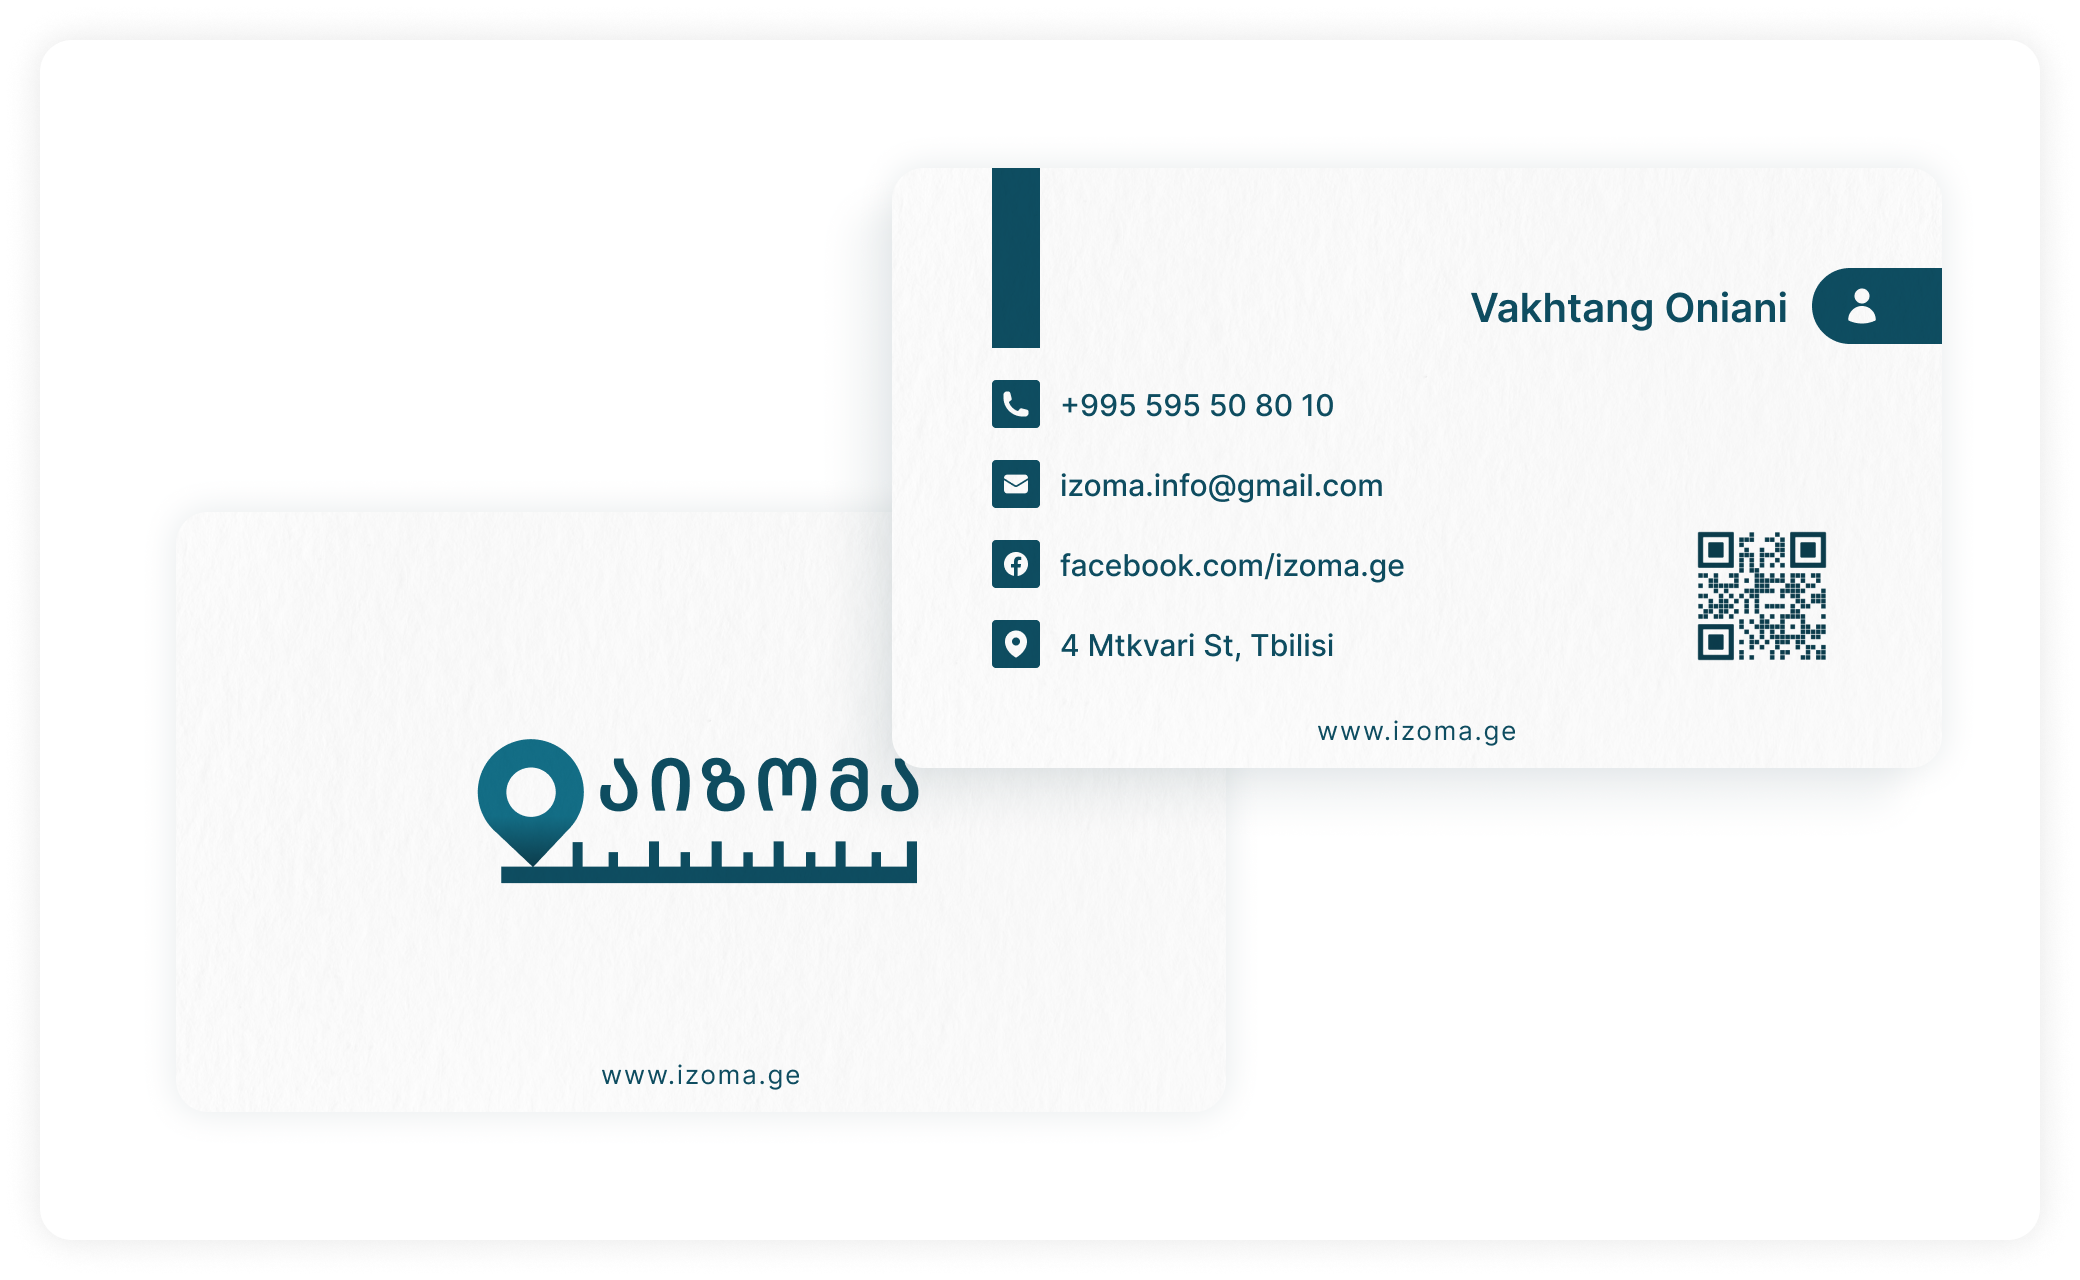
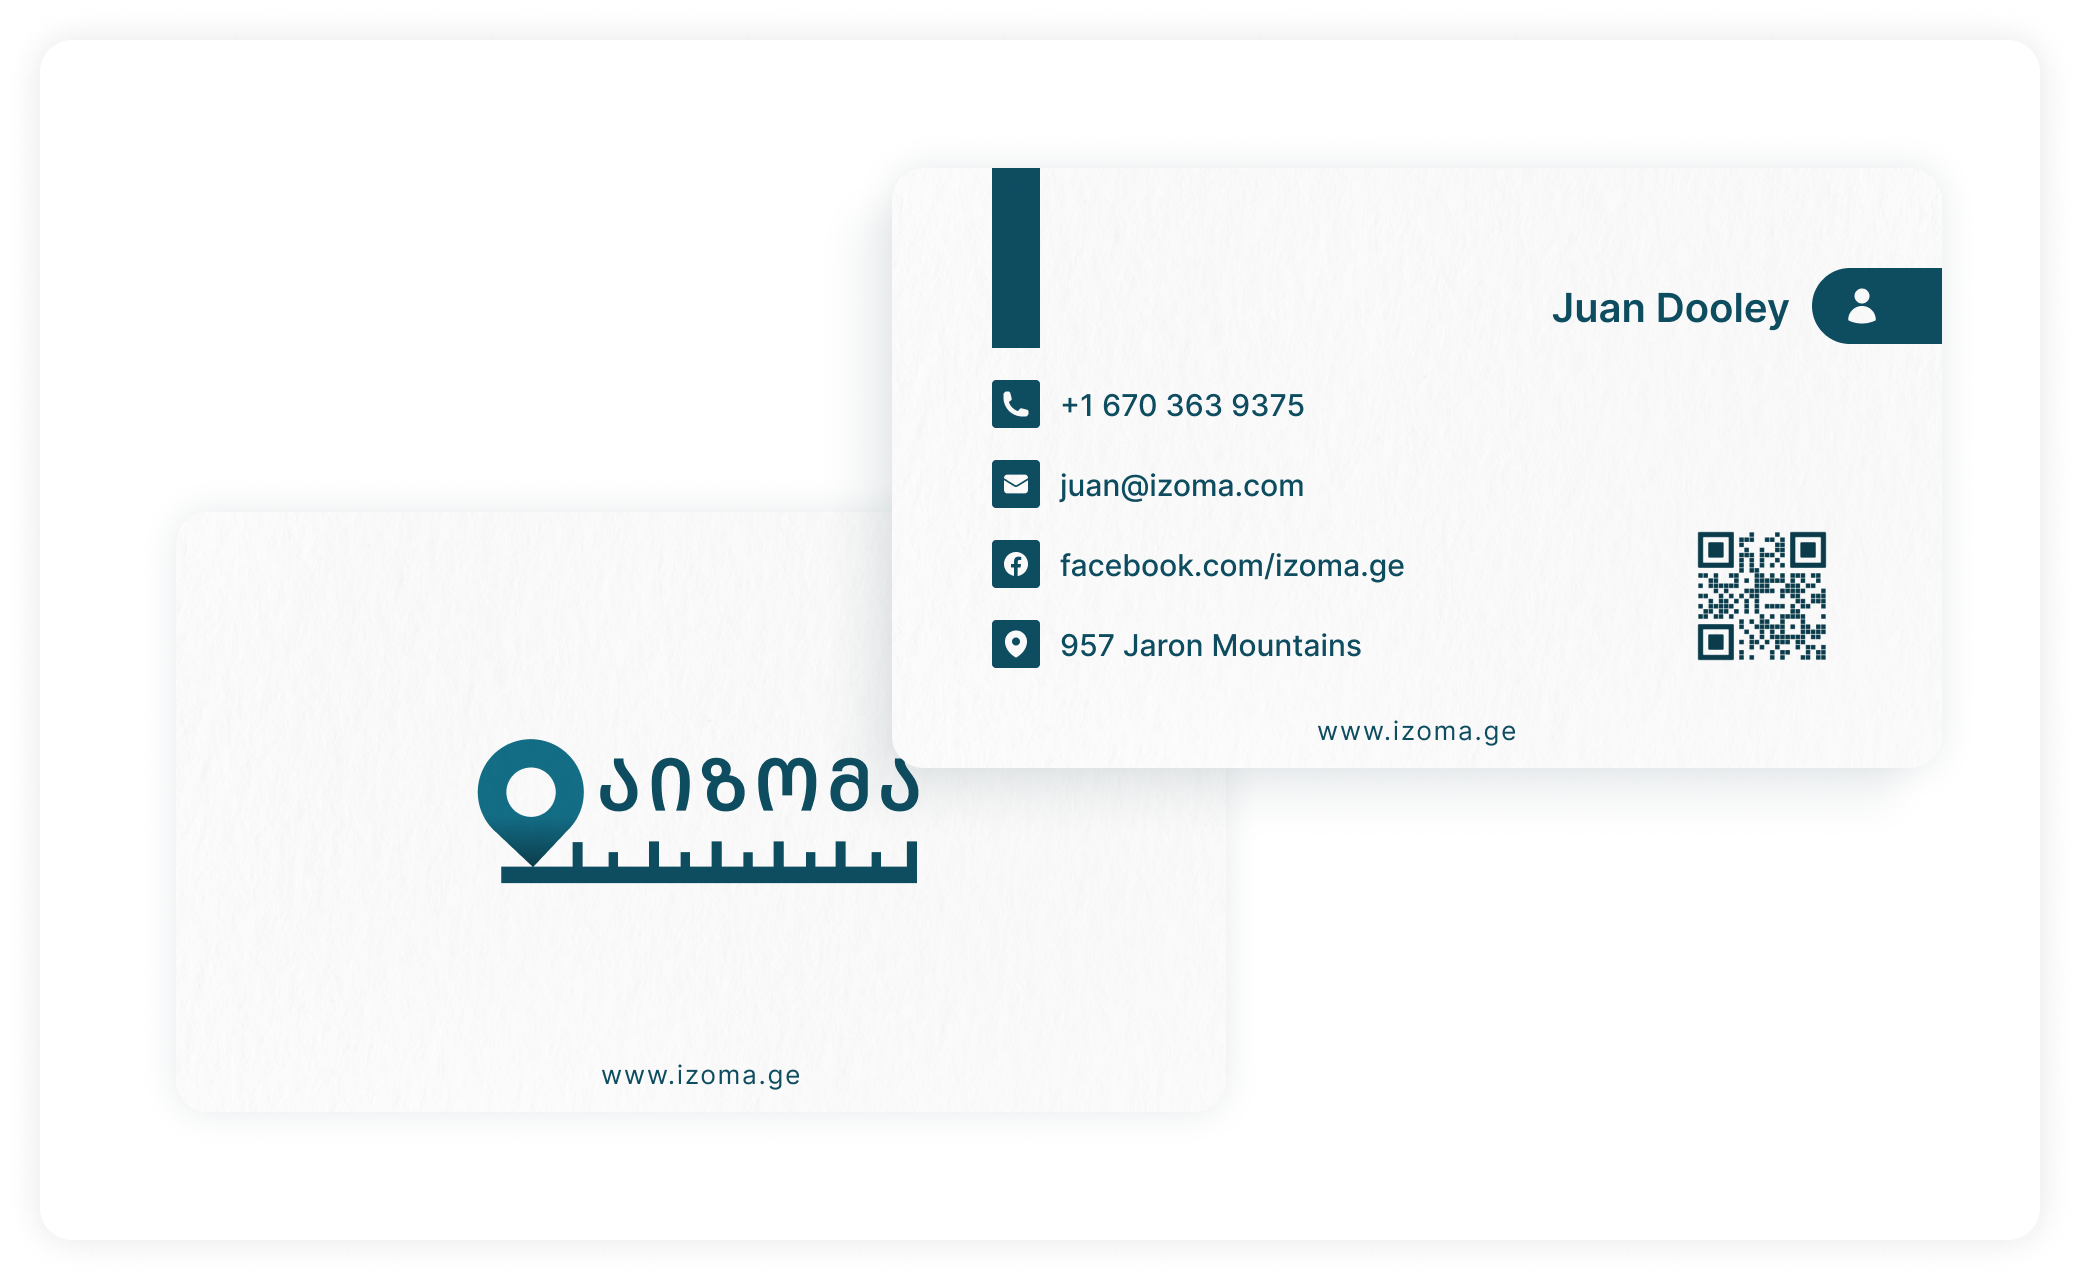
added izoma content

diff --git a/pages/izoma.tsx b/pages/izoma.tsx
@@ -8,7 +8,7 @@ import {
 } from "../components";
 import Image from "next/image";
 
-const prototypeURL = "https://bit.ly/gluten-free-finder";
+const prototypeURL = "https://bit.ly/izomage";
 
 export default function Page() {
   return (
@@ -34,6 +34,12 @@ export default function Page() {
           <Section
             title="My Role & Project Duration"
             body="Product Designer"
+            list={[
+              "“Website design”",
+              "“Logo redesign”",
+              "“Business card design”",
+              "“Brand Book”",
+            ]}
             finalText="3 weeks"
             className="basis-1/3 mt-8"
           />
@@ -45,74 +51,14 @@ export default function Page() {
           />
         </div>
 
-        <Text variant="title">Understanding the User</Text>
-
-        <div className="md:mt-8 md:mb-24 flex md:flex-row flex-col">
-          <Section
-            title="Research"
-            body="To better understand and empathize with consumers, I began researching gluten intolerance and celiac disease. Then, I came up with some desirable features according to my findings and the given insights:"
-            className="basis-1/3 mt-8"
-          />
-
-          <Section
-            title="User Insights"
-            list={[
-              "“Finding gluten-free places during my travels is very painful. If I’m lucky I can find a dedicated gluten-free restaurant, otherwise it’s very hard for me to trust a place. The risk of cross-contamination in a regular kitchen is just too high.”",
-              "“It’s not just about being gluten-free, but the culinary experience. Just because I’m sensitive to gluten it doesn’t mean I don’t want to have a romantic dinner during my holidays with my partner.”",
-              "“Gluten-free bakeries and restaurants can be overly expensive, it would be great to discover those within a reasonable price range close to me.”",
-              "“I usually revisit the gluten-free places where I had a good impression, but I tried so many, that it is hard to keep track of them.”",
-            ]}
-            className="basis-1/3 mt-8"
-          />
-
-          <Section
-            title="Solutions"
-            list={[
-              "The users should be able to easily find a new restaurant with their specifications.",
-              "The users find it useful to read about restaurant reviews.",
-              "They’d love to save favorite restaurants in a list and share the list with others.",
-              "Customers would like to know how pricey the place is, so in the descriptions should be price indicators.",
-              "A big part of the users would be travelers, they might be tired and hungry, and most likely they are using the app with a low phone battery after taking lots of photos, so I thought the app should have a dark mode as well to save the battery.",
-              "The app should support several languages to be useful for travelers.",
-            ]}
-            className="basis-1/3 mt-8"
-          />
-        </div>
-
-        <Text variant="title">Design and Reasoning</Text>
-
-        <div className="md:mt-8 md:mb-24 flex md:flex-row flex-col">
-          <Section
-            title="Introduction Screens"
-            body="I think for a better experience, every app should have some introduction page to communicate with the users what the app is about before they ask to create an account or log in. So I added 3 introduction screens."
-            className="basis-1/2 mt-8"
-          />
-
-          <Section
-            title="Log In options"
-            body="Then I decided to add different login options, with all popular social accounts as well as just email sign-ups, to make sure all users can sign in. I also added the forgot password screen in case someone needs to reset their account password."
-            className="basis-1/2 mt-8"
-          />
-        </div>
-
-        <div className="mt-8 mb-16">
-          <Image
-            src={`/assets/gluten-free-introduction.png`}
-            width={1120}
-            height={444}
-            alt="1"
-            quality={100}
-          />
-        </div>
-
         <Section
-          title="Home"
-          body="After logging in, the app should be easy to navigate, so I chose a taskbar for navigation. Users can scroll up or down the list view on the map."
+          title="Design System"
+          body="I chose the Noto Sans Georgian typeface and the corresponding icon set because of their perfect match in shape and form. This alignment creates a seamless visual connection that enhances overall design cohesiveness. Moreover, Noto Sans Georgian's support for Latin, Georgian, and Russian characters allows me to maintain consistency throughout this multilingual website."
         />
 
         <div className="mt-12 mb-16">
           <Image
-            src={`/assets/gluten-free-home.png`}
+            src={`/assets/izoma-ds.png`}
             width={1120}
             height={444}
             alt="1"
@@ -120,97 +66,89 @@ export default function Page() {
           />
         </div>
 
-        <Section
-          title="Profile"
-          body="From the Task Bar user are able to navigate to the profile screen where they can choose the language or theme of the app, log out and get help."
-        />
-
-        <div className="mt-12 mb-16">
-          <Image
-            src={`/assets/gluten-free-profile.png`}
-            width={1120}
-            height={444}
-            alt="1"
-            quality={100}
-          />
-        </div>
-
-        <Section
-          title="Favorites & Share"
-          body="Users can navigate to the favorites list where the saved restaurants are and read more about them, remove them from the list, or share the entire list."
-        />
-
-        <div className="mt-12 mb-16">
-          <Image
-            src={`/assets/gluten-free-favorites.png`}
-            width={1120}
-            height={444}
-            alt="1"
-            quality={100}
-          />
-        </div>
-
-        <Section
-          title="Filter"
-          body="Using the filter users are able to easily find a restaurant with their specifications. For eg, they can filter by food category, restaurant type, opening hours etc. That feature makes the app much more convenient and easy to use."
-        />
-
-        <div className="mt-12 mb-16">
-          <Image
-            src={`/assets/gluten-free-filter.png`}
-            width={1120}
-            height={444}
-            alt="1"
-            quality={100}
-          />
-        </div>
-
-        <Section
-          title="Reviews & Price indicators"
-          body="Gluten-free bakeries and restaurants are often overly expensive. So, before visiting the place would be great to have an overall idea of how pricey it is. Price indicators and customer reviews would be helpful for this. Hence, there is a restaurant info page where users can read their descriptions and reviews, make a call to reserve, get restaurants' locations to navigate, write reviews after visiting and add them to their favorite list."
-        />
-
-        <div className="mt-12 mb-20">
-          <Image
-            src={`/assets/gluten-free-reviews.png`}
-            width={1120}
-            height={444}
-            alt="1"
-            quality={100}
-          />
-        </div>
-
-        <SectionHeader title="Light and Dark Themes" />
-
-        <div className="mt-4 mb-16">
-          <Image
-            src={`/assets/gluten-free-screens.png`}
-            width={1120}
-            height={444}
-            alt="1"
-            quality={100}
-          />
-        </div>
-
-        <Text variant="title">Design System</Text>
-
-        <div className="md:mt-2 md:mb-24 flex md:flex-row flex-col">
+        <div className="md:mt-4 md:mb-24 flex md:flex-row flex-col">
           <Section
-            title="Colors"
-            body="I chose a white background and metallic silver as a primary color. There is a lot of reading in the app, so I needed color which would not be annoying for users' eyes, which would be solid and clean. Also, the white and silver color is kind of kitchen colors, like a white dining table with white dishes, silver spoons, and forks, a white chef's uniform with silver pots and pans. So that is how I got the idea. "
+            title="Business Card Design"
+            body="The logo redesign brought about subtle yet transformative changes that yielded a significant impact. By incorporating slight modifications, the logo now exudes a modern and fresh essence that aligns seamlessly with the company's core operations. The refined design retains the company's heritage while imparting a renewed sense of relevance. This evolution not only enhances visual appeal but also reinforces a more compelling representation of the company's work and values."
             className="basis-1/2 mt-8"
           />
 
+          <div className="basis-1/2 mt-8">
+            <Image
+              src={`/assets/izoma-card.png`}
+              width={1120}
+              height={444}
+              alt="1"
+              quality={100}
+            />
+          </div>
+        </div>
+
+        <div className="md:mt-4 md:mb-24 flex md:flex-row flex-col-reverse">
+          <div className="basis-1/2 mt-8">
+            <Image
+              src={`/assets/izoma-logo.png`}
+              width={1120}
+              height={444}
+              alt="1"
+              quality={100}
+            />
+          </div>
+
           <Section
-            title="Typeface & Iconography"
-            body="Used typeface - Cera Pro is very clean and easy to read. The letters are based on pure geometry, and it has almost all language support so when the app is multilingual it will be easy to read for everyone around the world. Also, chosen tiny icons because of the minimalist's design approach."
+            title="Logo"
+            body="The logo redesign brought about subtle yet transformative changes that yielded a significant impact. By incorporating slight modifications, the logo now exudes a modern and fresh essence that aligns seamlessly with the company's core operations. The logo blends a location pin 📍 and a ruler 📏, forming a visual representation that encapsulates Izoma LLC's land surveying services. This combination conveys the company's expertise and focus in a clear and memorable way, showcasing their specialized field through a carefully designed emblem."
+            className="basis-1/2 mt-8 ml-4"
+          />
+        </div>
+
+        <div className="md:mt-4 md:mb-24 flex md:flex-row flex-col">
+          <Section
+            title="Understanding"
+            body="When tasked with designing the website for Izoma LLC, a respected land surveying firm, I began by delving into research. This involved studying other companies in the same field to uncover prevailing design practices. By analyzing their websites, I gained valuable insights into what works effectively for users in this industry. This research provided me with a solid foundation to create a user-friendly website for Izoma LLC, incorporating proven design elements that resonate with their target audience and reflect industry standards."
             className="basis-1/2 mt-8"
+          />
+
+          <div className="basis-1/2 mt-8">
+            <Image
+              src={`/assets/izoma-understanding.png`}
+              width={1120}
+              height={444}
+              alt="1"
+              quality={100}
+            />
+          </div>
+        </div>
+
+        <div className="md:mt-4 md:mb-24 flex md:flex-row flex-col-reverse">
+          <div className="basis-1/2 mt-8">
+            <Image
+              src={`/assets/izoma-website.png`}
+              width={1120}
+              height={444}
+              alt="1"
+              quality={100}
+            />
+          </div>
+
+          <Section
+            title="About the Website"
+            body="Izoma LLC's homepage is a dynamic hub, spotlighting impressive statistics and an engaging "About" section to connect with visitors. The comprehensive "Services" segment concisely presents their diverse offerings, while a user-friendly contact form ensures easy communication. The "Blog Highlights" section showcases their expertise through featured articles, solidifying Izoma LLC's credibility within the industry. This cohesive homepage delivers a rich visitor experience that embodies the company's professionalism and commitment to excellence."
+            className="basis-1/2 mt-8 ml-4"
+          />
+        </div>
+
+        <div className="md:mt-8 md:mb-4 flex md:flex-row flex-col">
+          <Section
+            title="Engaging users"
+            body="My approach to Izoma LLC's website design was guided by thorough research into industry norms, ensuring a user-centered experience that encourages interaction. The concise "About" section strategically funnels users to the prominent "Contact Me" button, while also communicating the company's working hours, fostering trust. This design approach blends professionalism with effective user guidance, creating a seamless path for initiating contact."
+            className="mt-24"
           />
         </div>
 
         <div className="mt-4">
           <Image
-            src={`/assets/gluten-free-design-system.png`}
+            src={`/assets/izoma-engaging-users.png`}
             width={1120}
             height={444}
             alt="1"
@@ -218,8 +156,30 @@ export default function Page() {
           />
         </div>
 
-        <div className="md:mt-72 mt-24">
-          <ProjectFinal navigationURL={prototypeURL} />
+        <div className="md:mt-8 md:mb-4 flex md:flex-row flex-col">
+          <Section
+            title="Responsive Website"
+            body="Website is fully responsive, providing seamless access across all devices, particularly mobile phones. With mobile devices being the primary browsing tool for Izoma’s customers, ensuring excellent responsiveness was a crucial aspect of the website's design."
+            className="mt-24"
+          />
+        </div>
+
+        <div className="mt-4">
+          <Image
+            src={`/assets/izoma-mockups.png`}
+            width={1120}
+            height={444}
+            alt="1"
+            quality={100}
+          />
+        </div>
+
+        <div className="md:mt-32 mt-24">
+          <ProjectFinal
+            navigationURL={prototypeURL}
+            label="Click on the button if you’d like to check the website!"
+            buttonLabel="View Website"
+          />
         </div>
       </div>
     </Layout>
